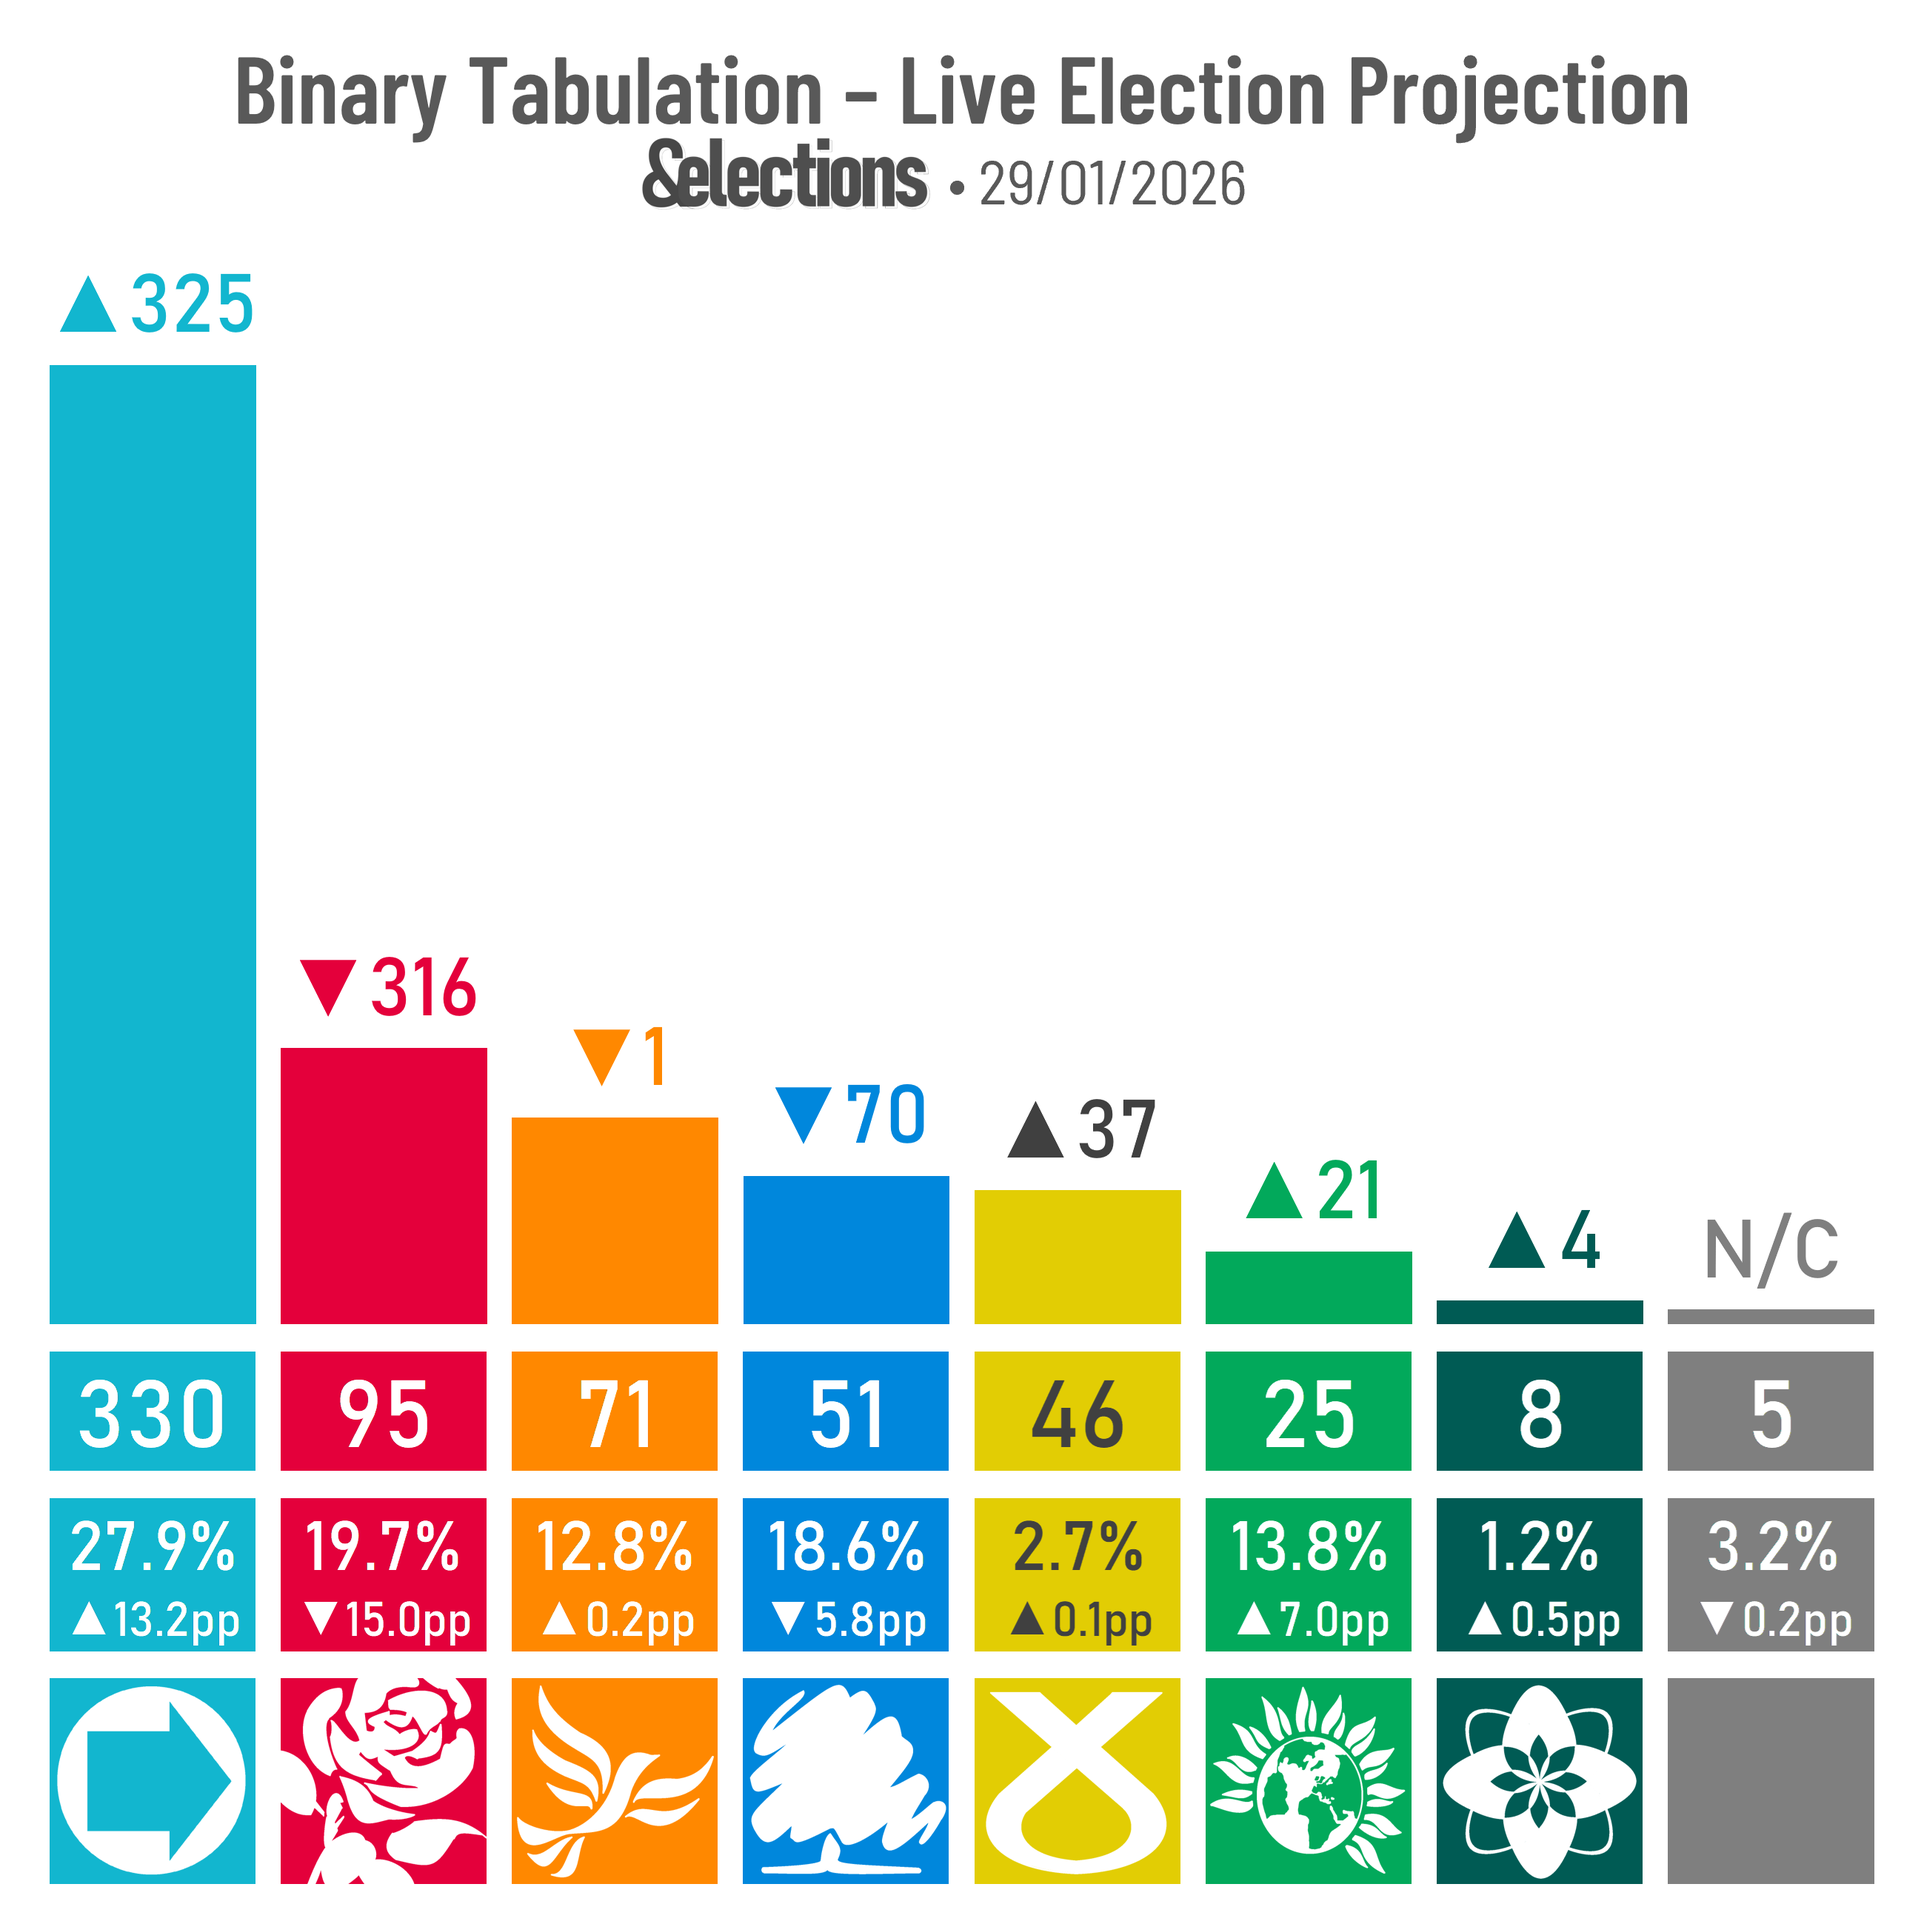
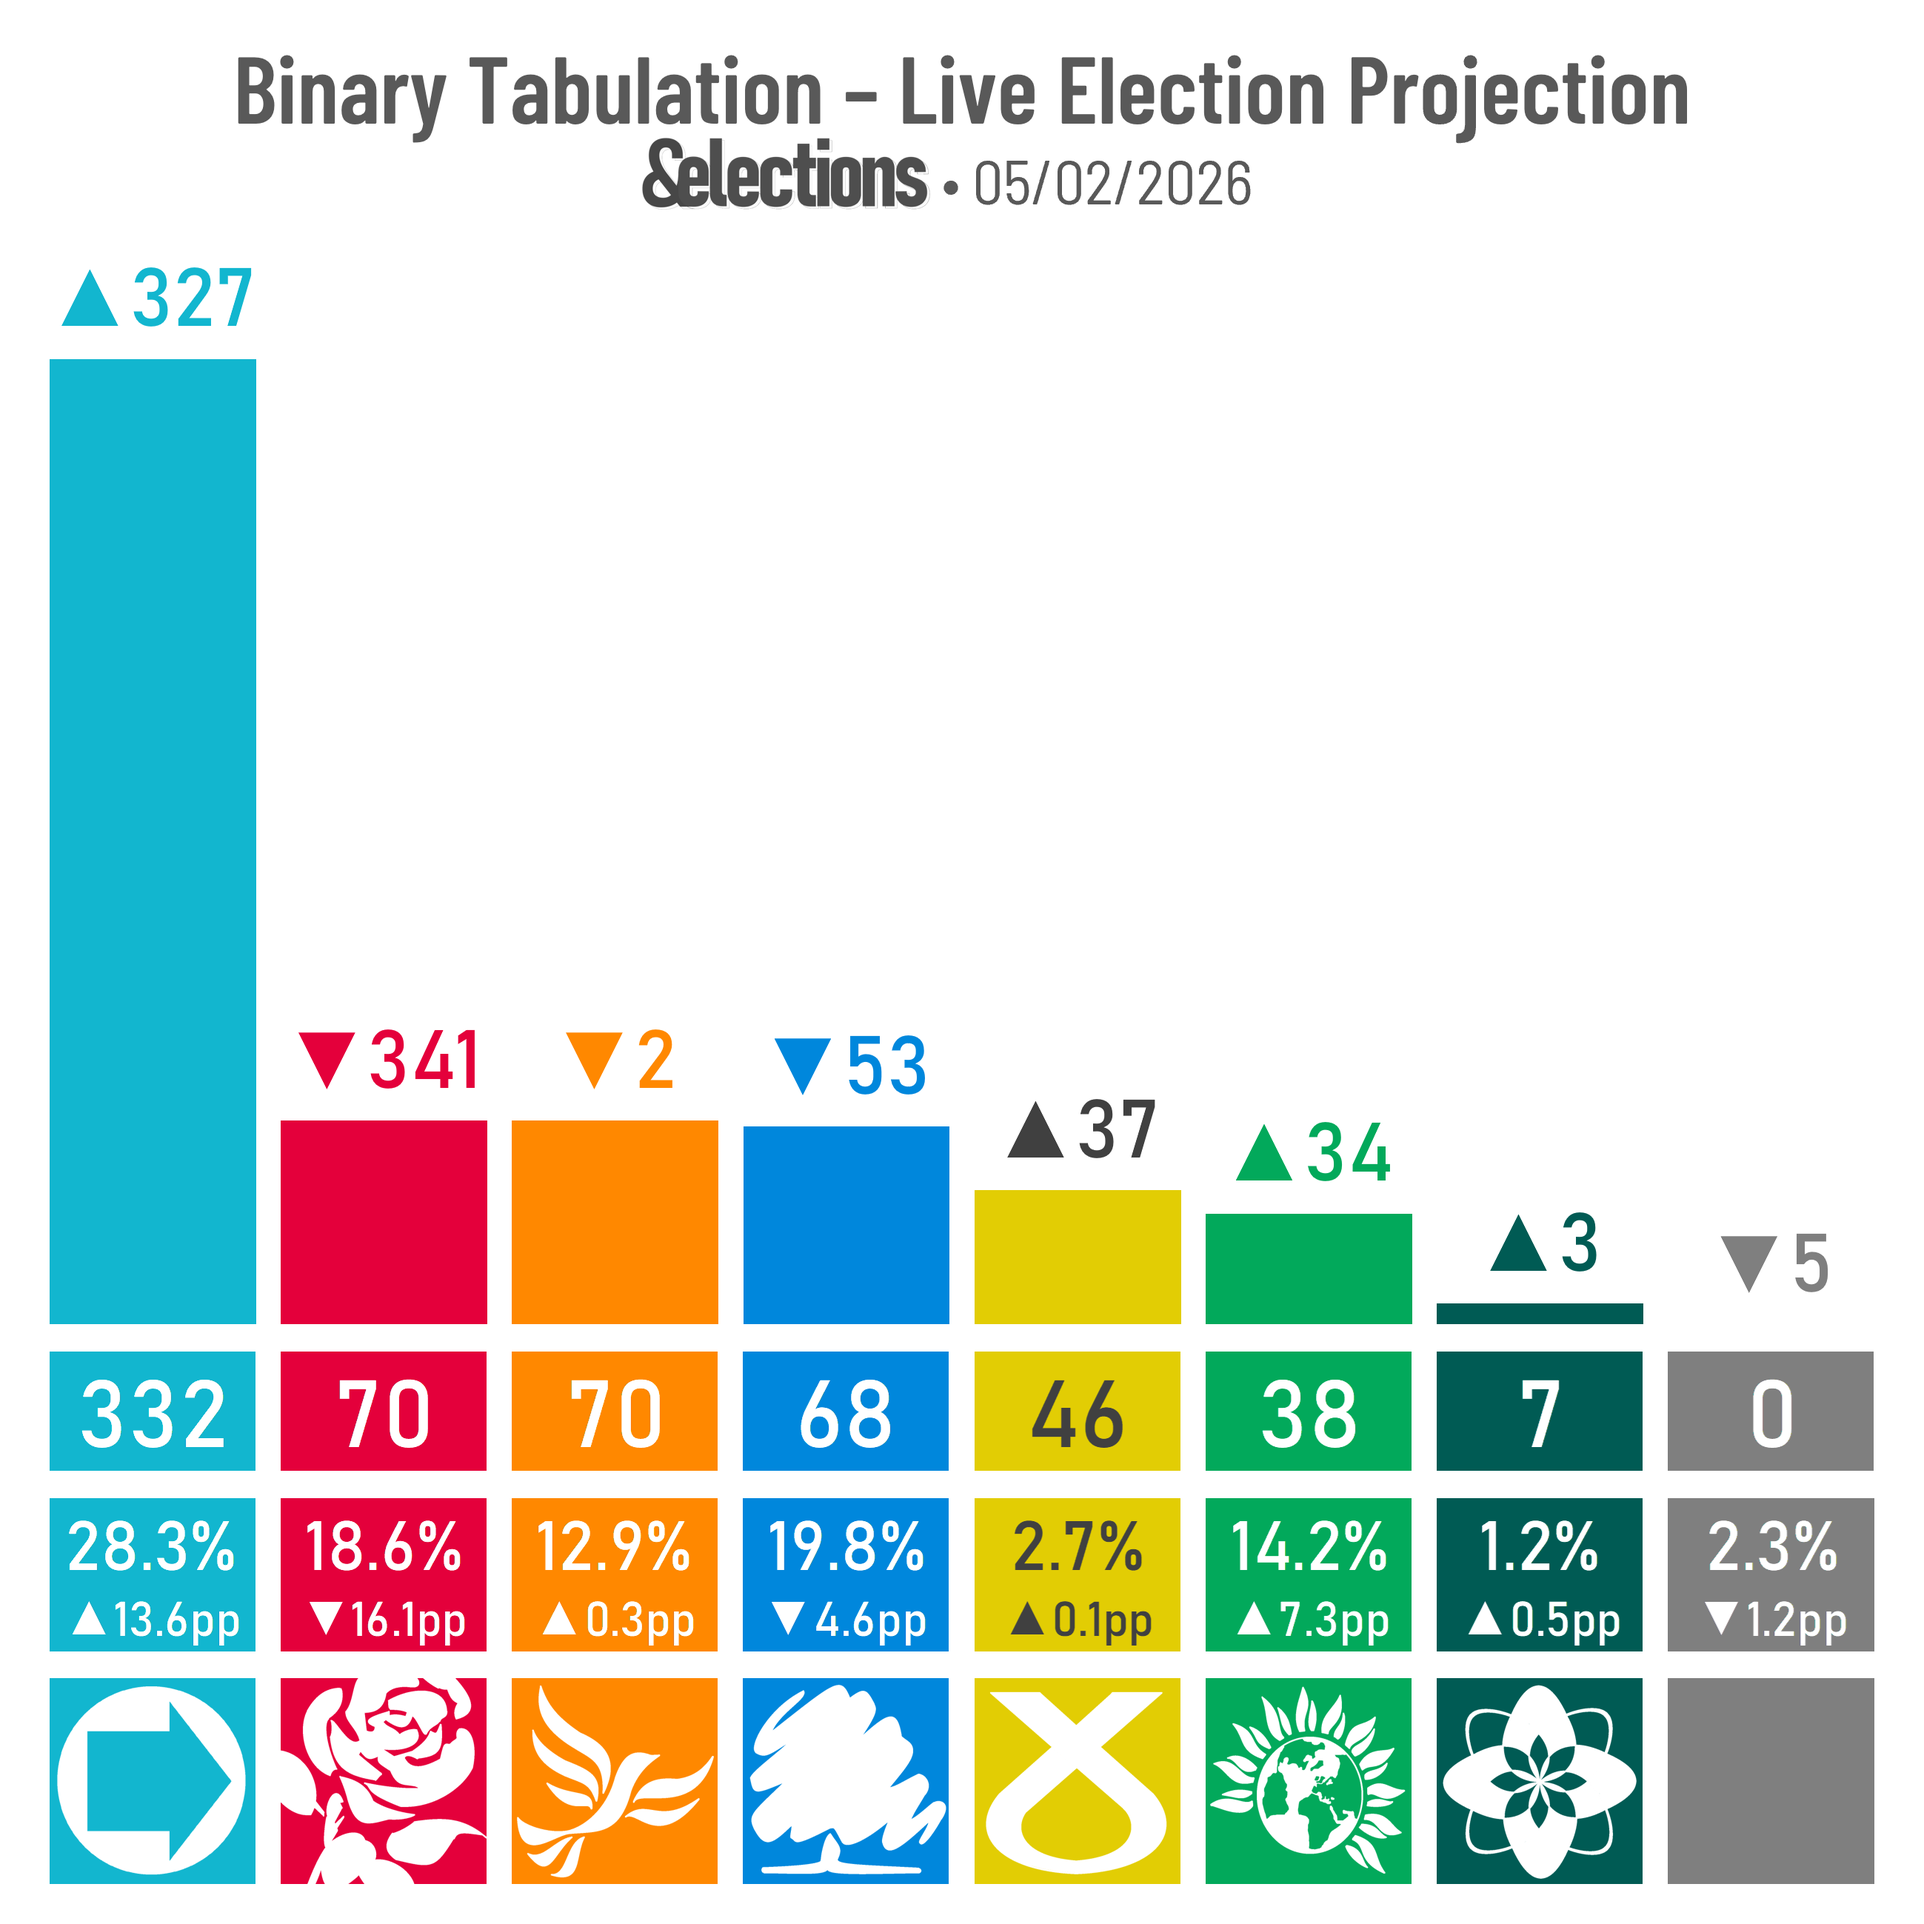
05/02/26 UK Projection
- Added images
- Added blog post

diff --git a/index.html b/index.html
@@ -262,6 +262,10 @@
                 </div>
                 <div class="datacontainer" id="data-blog">
                     <div class="blogtitles-container">
+                        <a href="https://andelections.substack.com/p/050226-uk-projection-janurays-tumult" title="Open article in new tab" target="_blank" rel="noopener noreferrer">
+                            <h2>05/02/26 UK projection: Januray's Tumult Yields No Change</h2>
+                            <p>05 Feb 2026 • There is little change from &Elections' 08 Jan projection, but what could the factors at play in the upcoming by-election be?</p>
+                        </a>
                         <a href="https://andelections.substack.com/p/130126-senedd-projection-a-left-wing" title="Open article in new tab" target="_blank" rel="noopener noreferrer">
                             <h2>14/01/26 Senedd Projection: A Left-Wing Welsh Government Without Labour?</h2>
                             <p>13 Jan 2026 • Under this projection, Plaid and the Greens are up as Reform and Labour are down, but interestingly the most likely coalition would not be between Plaid and Labour.</p>
